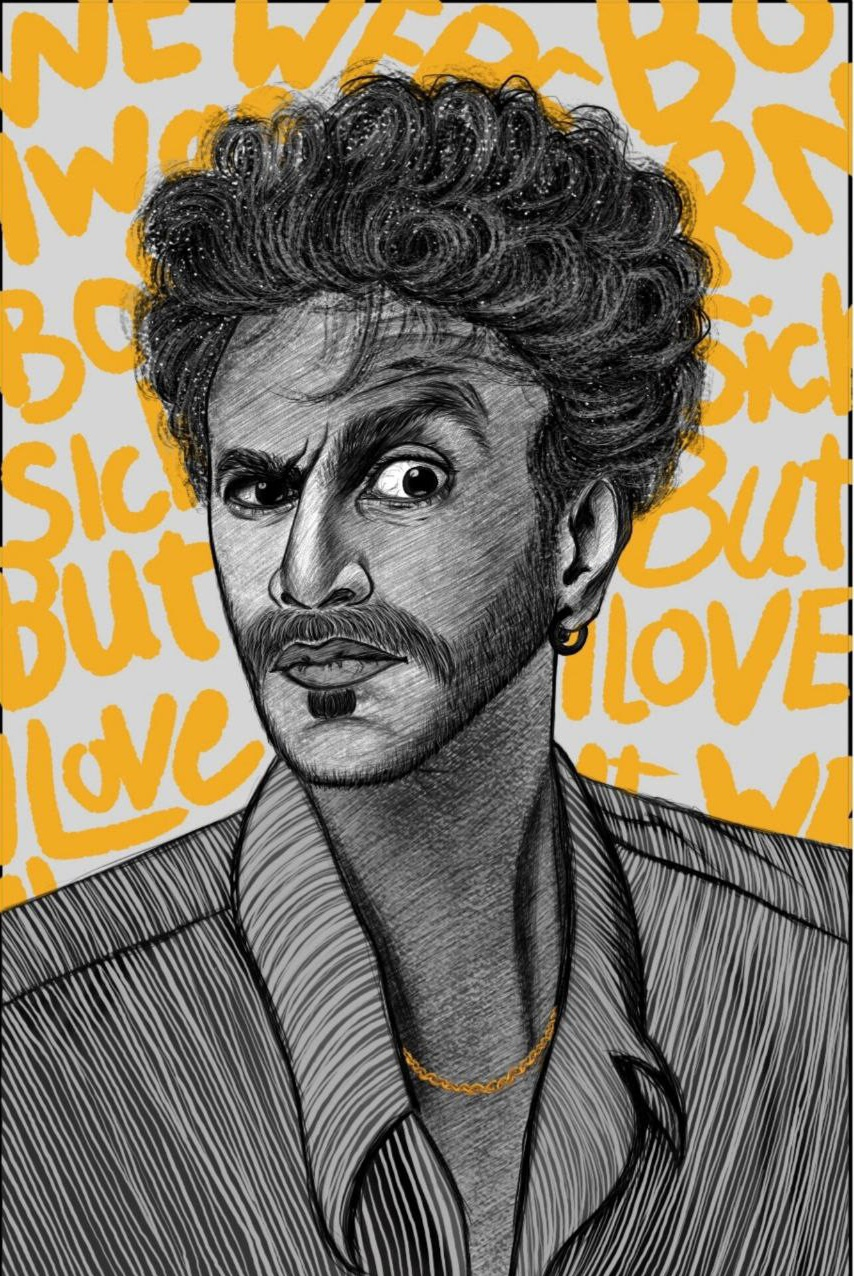
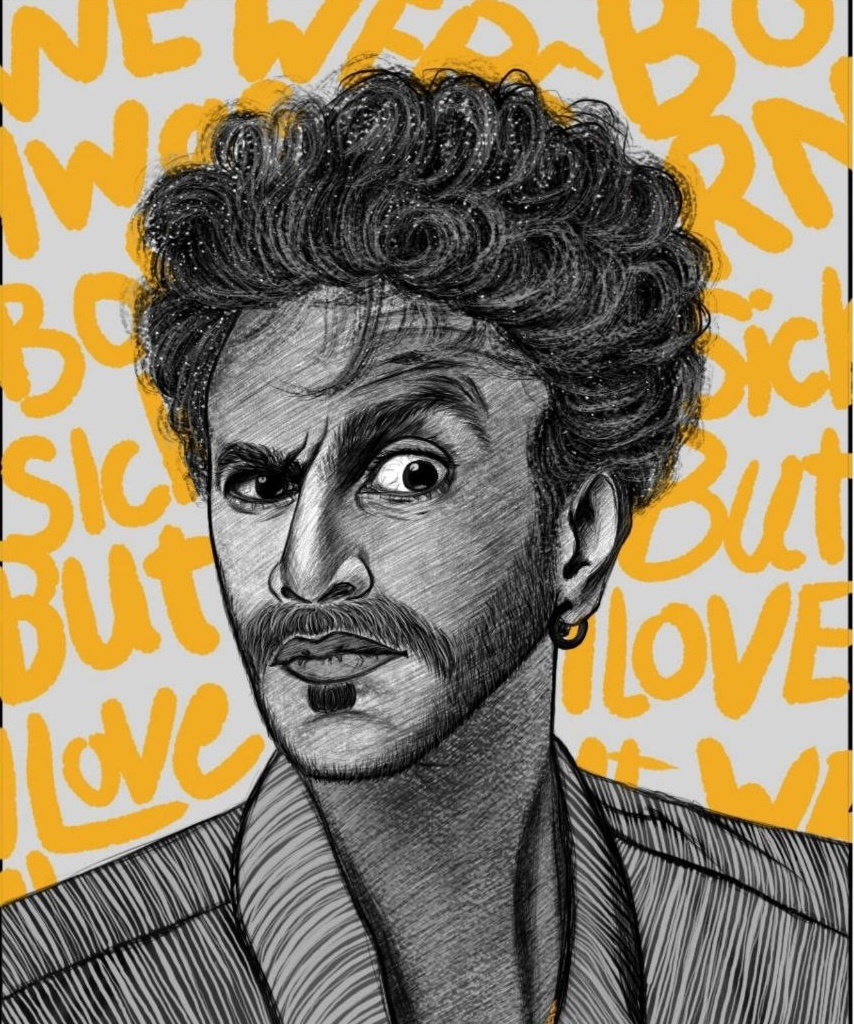
Add More artworks

diff --git a/app/composables/useProjects.ts b/app/composables/useProjects.ts
@@ -53,7 +53,7 @@ export const useProjects = () => {
 			fullDesc: 'I made this illustration using the Krita app on a Samsung tablet. I started with a rough sketch, using a photo as a reference to get the facial features right. I then added details and shading, focusing on texture and bold lines. The background text adds extra character to the drawing. This was a fun practice in portrait art and trying out different brushes in Krita.',
 			cover: '/art/5.jpg',
 			gallery: [
-				'/art/5.jpg',
+				'/art/5/5.jpg',
 				'/art/5/1.jpg',
 				'/art/5/2.jpg',
 				'/art/5/3.jpg',
@@ -78,7 +78,7 @@ export const useProjects = () => {
 			fullDesc: '',
 			cover: '/art/7.jpg',
 			gallery: [
-				'/art/7.jpg',
+				'/art/7/1.jpg',
 			]
 		},
 		{
@@ -94,6 +94,94 @@ export const useProjects = () => {
 				'/art/8/2.jpg',
 				'/art/8/4.jpg',
 				'/art/8/5.jpg',
+			]
+		},
+		{
+			id: '10',
+			title: 'Procreate Practice',
+			shortDesc: '',
+			fullDesc: '',
+			cover: '/art/10.jpg',
+			gallery: [
+				'/art/10.jpg',
+			]
+		},
+		{
+			id: '9',
+			title: 'Color and Texture Study: Realistic Pumpkin',
+			shortDesc: '',
+			fullDesc: 'A digital study focused on realistic textures and colors. Created on a Samsung tablet with Krita, this piece uses precise layering and color swatches to capture the warm details of a pumpkin.',
+			cover: '/art/9.jpg',
+			gallery: [
+				'/art/9.jpg',
+				'/art/9/1.jpg',
+				'/art/9/2.jpg',
+			]
+		},
+		{
+			id: '11',
+			title: 'My Sister!',
+			shortDesc: '',
+			fullDesc: '',
+			cover: '/art/11.jpg',
+			gallery: [
+				'/art/11.jpg',
+				'/art/11/2.jpg',
+				'/art/11/1.jpg',
+				'/art/11/3.jpg',
+			]
+		},
+		{
+			id: '12',
+			title: 'Me!',
+			shortDesc: '',
+			fullDesc: '',
+			cover: '/art/12.jpg',
+			gallery: [
+				'/art/12/2.jpg',
+				'/art/12/1.jpg',
+			]
+		},
+		{
+			id: '13',
+			title: 'Monster',
+			shortDesc: '',
+			fullDesc: '',
+			cover: '/art/13.png',
+			gallery: [
+				'/art/13.png',
+				'/art/13/1.jpg',
+			]
+		},
+		{
+			id: '14',
+			title: 'Chips',
+			shortDesc: '',
+			fullDesc: '',
+			cover: '/art/14.jpg',
+			gallery: [
+				'/art/14.jpg',
+			]
+		},
+		{
+			id: '15',
+			title: 'Chiaroscuro Drawing',
+			shortDesc: '',
+			fullDesc: '',
+			cover: '/art/15.jpg',
+			gallery: [
+				'/art/15.jpg',
+				'/art/15/1.jpg',
+			]
+		},
+		{
+			id: '16',
+			title: 'Sketches',
+			shortDesc: '',
+			fullDesc: '',
+			cover: '/art/16.jpg',
+			gallery: [
+				'/art/16.jpg',
 			]
 		},
 	]

diff --git a/app/pages/contact.vue b/app/pages/contact.vue
@@ -2,7 +2,7 @@
 	<section>
 		<div class="text-center bg-pink-ink text-white p-12 rounded-[15px_50px_15px_50px] mt-8 shadow-lg">
 			<h2 class="font-handwriting text-5xl mb-4 text-white">Let's Work Together!</h2>
-			<p class="text-lg mb-6">For commissions, editorial work, or collaborations, please reach out via email:</p>
+			<p class="text-lg mb-6">For commissions, editorial work, or collaborations, please reach out on Instagram:</p>
 			<p class="mt-8 text-lg">
 				Instagram: <a href="https://www.instagram.com/mahdis_illustrator" target="_blank" class="font-bold hover:underline">@mahdis_illustrator</a>
 			</p>

diff --git a/README.md b/README.md
@@ -1,75 +1,1 @@
-# Nuxt Minimal Starter
-
-Look at the [Nuxt documentation](https://nuxt.com/docs/getting-started/introduction) to learn more.
-
-## Setup
-
-Make sure to install dependencies:
-
-```bash
-# npm
-npm install
-
-# pnpm
-pnpm install
-
-# yarn
-yarn install
-
-# bun
-bun install
-```
-
-## Development Server
-
-Start the development server on `http://localhost:3000`:
-
-```bash
-# npm
-npm run dev
-
-# pnpm
-pnpm dev
-
-# yarn
-yarn dev
-
-# bun
-bun run dev
-```
-
-## Production
-
-Build the application for production:
-
-```bash
-# npm
-npm run build
-
-# pnpm
-pnpm build
-
-# yarn
-yarn build
-
-# bun
-bun run build
-```
-
-Locally preview production build:
-
-```bash
-# npm
-npm run preview
-
-# pnpm
-pnpm preview
-
-# yarn
-yarn preview
-
-# bun
-bun run preview
-```
-
-Check out the [deployment documentation](https://nuxt.com/docs/getting-started/deployment) for more information.
+A Nuxt and Tailwind portfolio website showcasing Mahdis Hajiani's illustration, resume, and contact information.